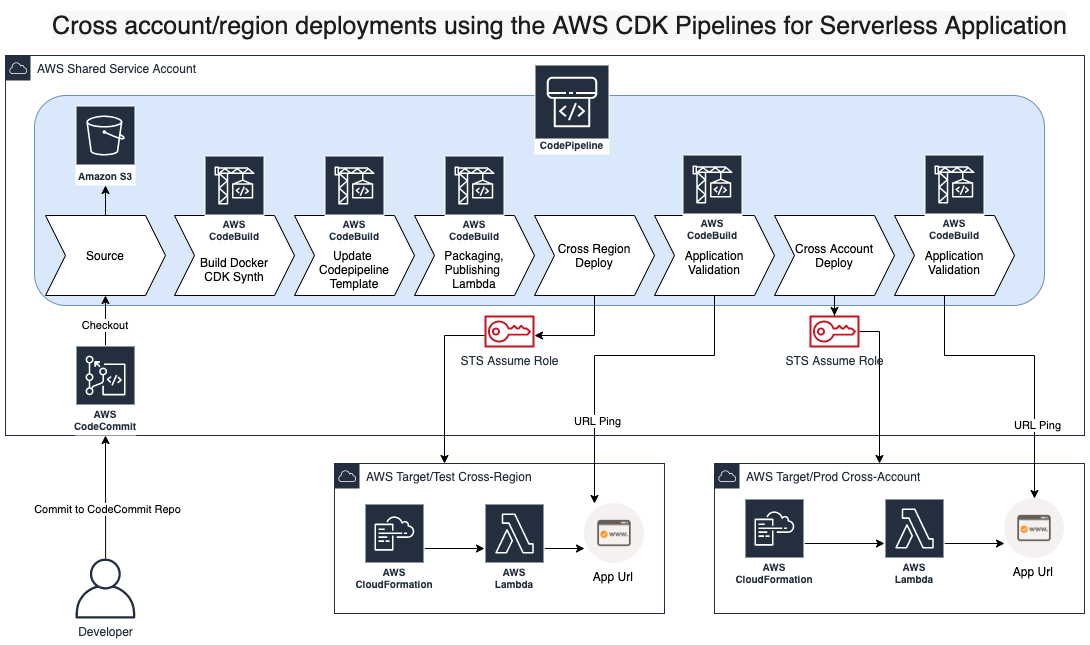
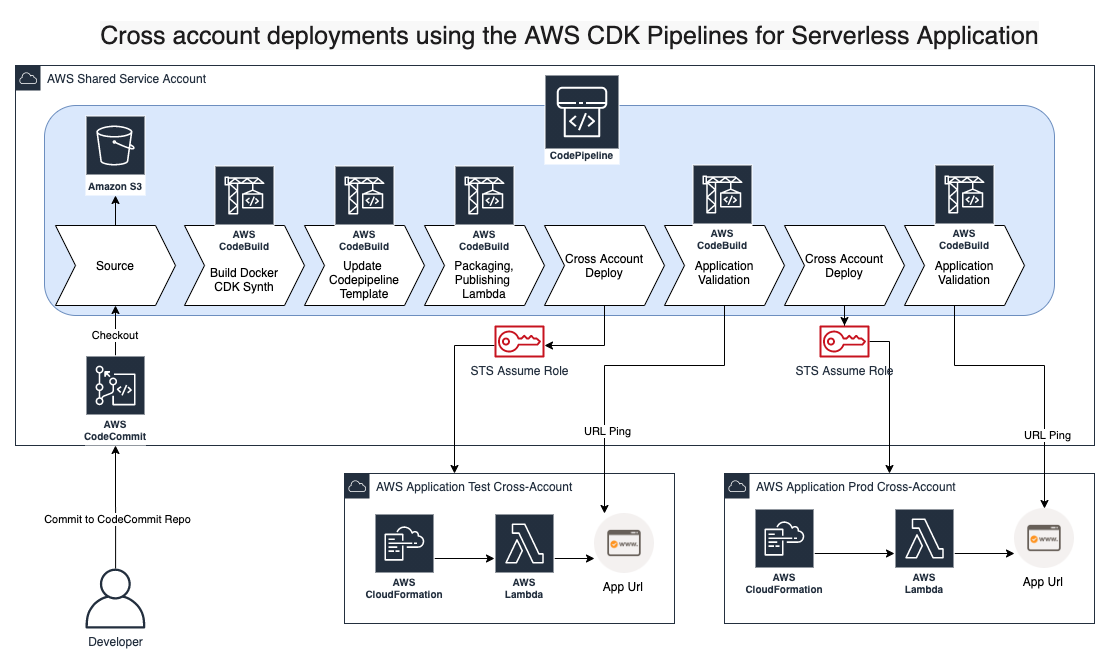
Fixed multi account

diff --git a/README.md b/README.md
@@ -2,17 +2,17 @@
 # Package Description:
 
 The purpose of this artifact is to give a customer out of the box solution to get started with AWS CDK project for deploying
-a serverless application into cross region and cross account using AWS Devloper tools like AWS CodeCommit, AWS CodePipeline and AWS Cloudformation.
+a serverless application into multiple cross accounts using AWS Developer tools like AWS CodeCommit, AWS CodePipeline and AWS Cloudformation.
 
-The purpose of this artifact is to get the developer hands of experience with AWS CDK and show the way that CDK helps in generating AWS Cloudformation
-tempaltes and provision Pipeline with few commands.
-Also, since the AWS Codepipelines are provisioned through AWS CDK, when there is change to the pipeline itself (example, adding a new stage in the pipelines), 
-developer need not to worry about operational changes to pipeline insfrastructre, as AWS CDK has a built in feature called `Self Mutation deploys` which means
-if there are any changes to pipeline itselt, once the code is commited to CodeCommit Repo, the pipeline will take care of making changes to pipeline infrastrucre.
+The purpose of this artifact is to get the developer hands of experience with AWS CDK and show the way that CDK helps in generating AWS Cloudformation templates and provision Pipelines with few commands.
+Also, since the AWS Codepipelines are provisioned through AWS CDK, when there is a change to the pipeline itself (example, adding a new stage in the pipelines), developer need not to worry about operational changes to pipeline infrastructure, as AWS CDK has a built in feature called `Self Mutation deploys` which means if there are any changes to pipeline itself, once the code is committed to CodeCommit Repo, the pipeline will take care of making changes to pipeline infrastructure.
 
 # Design Overview
-This artifact is needed two AWS Accounts, one is to provision Pipeline Infrastrcutre and another is to provision Application Instraftructure(In this case it would be a Serverless Application)
+This artifact is needed three AWS Accounts, one is to provision Pipeline Infrastructure and other two are accounts are to provision Application Infrastructure (In this case it would be a Serverless Application)
+The Provisioned pipeline also validate deployed serverless application by pinging Url using CodeBuild Project before proceeding to make changes to Prod AWS Account.
+
 ![](design.png)
+Note: If you can’t see the image, refer to the attached (design.png) file.
 
 # Folder Structre
 
@@ -21,41 +21,29 @@ This artifact is needed two AWS Accounts, one is to provision Pipeline Infrastrc
 | cdk.json                                    | Context values for application and parameters for AWS Accounts, also tells the CDK Toolkit how to execute your app |
 | cdk.context.json                            | Context values for AWS Account Availability Zones |
 | app.py                                      | Loads cdk.json and cdk.context.json and calls pipeline/PipelineStack.py to provision pipeline |
-| pipeline/PipelineStack.py                   | Logic for representing how your pipeline should looks like (Imaging a CFN tempalte for provisioning pipeline) |
+| pipeline/PipelineStack.py                   | Logic for representing how your pipeline should looks like (Imagine a CFN template for provisioning pipeline) |
 | ApplicationStage.py                         | Logic for representing an application modeling unit consisting of Stacks that can be deployed together. (Imaging multiple CFN templates/stacks for application stage in pipeline)| 
-| cdk_pipeline_lambda/ApplicationStack.py     | Logic for provisioning your application infrastructure (Imagin a CFN template for application provisioning) |
+| cdk_pipeline_lambda/ApplicationStack.py     | Logic for provisioning your application infrastructure (Imagine a CFN template for application provisioning) |
 | lambda                                      | Application Code |
 
 # Pre-reqs:
-1. Get CDK Installed and Configure AWS Credentials : [install-cdk link](https://docs.aws.amazon.com/cdk/latest/guide/cli.html) 
-2. Bootstrapping your environments : [General-Information link](https://docs.aws.amazon.com/cdk/latest/guide/cli.html#cli-bootstrap)
-   ```
-   env CDK_NEW_BOOTSTRAP=1 npx cdk bootstrap \
-    --profile default \
-    --cloudformation-execution-policies arn:aws:iam::aws:policy/AdministratorAccess \
-    --trust <<ApplicationProvisionAWSAccount#>> \
-    aws://<<PipelineProvisionAWSAccount#>>/us-west-1
-
-    ```
-3. It is expected to have a CodeCommit Repo, if not please create one and checkout the repo.
-4. Clone repo: [link](https://gitlab.aws.dev/proserve-ussdt-devops/cdk-pipeline-lambda)
-5. Checkout cdk-pipeline-lambda and copy the contents to CodeCommit Repo (Ref: Step3)
-6. Open `cdk.json` and update the following: 
-   1. account:`<<pipelineProvisionAWSAccount#>>` from line# 8
-   2. account:`<<pipelineProvisionAWSAccount#>>` from line# 13
-   3. account:`<<ApplicationProvisionAWSAccount#>>` from line# 16
+1. It is expected to have three separate AWS accounts:
+   1. Shared Tool Chain Account (`<<pipelineProvisionAWSAccount#>>`) for hosting CodeCommit Repo, CodePipelines
+   2. Application Test Account (`<<testAWSAccount#>>`) for deploying application changes to Test Environment.
+   3. Application Prod Account (`<<prodAWSAccount#>>`) for deploying application changes to Production Environement
+2. Clone repo: [link](https://gitlab.aws.dev/proserve-ussdt-devops/cdk-pipeline-lambda)
+3. It is expected to have a CodeCommit Repo, if not please create one in Shared Tool Chain Account and checkout the repo.
+4. Checkout cdk-pipeline-lambda and copy the contents to CodeCommit Repo that is hosted in Shared Tool Chain Account.
+5. Update the following in files: `cdk.json` and `cdk.context.json` 
+   1. account:`<<pipelineProvisionAWSAccount#>>` with your Shared Tool Chain Account#
+   2. account:`<<testAWSAccount#>>` with your Application Test Account#
+   3. account:`<<prodAWSAccount#>>` with your Application Prod Account#
    4. Optionals: If you would like to change the region, you can do so.
-
-7. Open `cdk.context.json` and update the following:
-   1. account=`<<pipelineProvisionAWSAccount#>>`
-   2. account=`<<ApplicationProvisionAWSAccount#>>`
-8. Open `pipeline/PipelineStack.py` and replace `cdk-pipeline-demo` this with your codecommit repo name.
-9. Optional:
+6. Open `pipeline/PipelineStack.py` and replace `cdk-pipeline-demo` this with your codecommit repo name.
+7. Optional:
    1. If you want to change the stack name, Open `app.py`, replace `my-app-lambda-pipeline` this with new name.
    2. If you want to change the pipeline name, Open `pipeline/PipelineStack.py`, replace pipeline_name=`"MyLambdaPipeline"` this with new name.
-10. Push changes to CodeCommit Repo
-
-# Setup local environment:
+8. ### Setup local environment:
     This project is set up like a standard Python project.  The initialization
     process also creates a virtualenv within this project, stored under the .env
     directory.  To create the virtualenv it assumes that there is a `python3`
@@ -65,42 +53,86 @@ This artifact is needed two AWS Accounts, one is to provision Pipeline Infrastrc
 
     To manually create a virtualenv on MacOS and Linux:
 
-    ```
-    $ python3 -m venv .env
-    ```
+        ```
+        $ python3 -m venv .env
+        ```
 
     After the init process completes and the virtualenv is created, you can use the following
     step to activate your virtualenv.
 
-    ```
-    $ source .env/bin/activate
-    ```
+        ```
+        $ source .env/bin/activate
+        ```
 
     If you are a Windows platform, you would activate the virtualenv like this:
 
-    ```
-    % .env\Scripts\activate.bat
-    ```
-
+        ```
+        % .env\Scripts\activate.bat
+        ```
     Once the virtualenv is activated, you can install the required dependencies.
 
+        ```
+        $ pip install -r requirements.txt
+        ```
+    To add additional dependencies, for example other CDK libraries, just add
+    them to your `setup.py` file and rerun the `pip install -r requirements.txt`
+    command.
+9.  Get CDK Installed and Configure AWS Credentials : [install-cdk link](https://docs.aws.amazon.com/cdk/latest/guide/cli.html) 
+10. Bootstrapping from Shared Tool Chain Account (It means when you do `aws configure` from cli, you should see AWS Access Key ID related to Shared Tool Chain Account):
+   Execute this command:
     ```
-    $ pip install -r requirements.txt
+    cdk bootstrap
     ```
+    Please see the attached screenshot for more information.
+    ![](screenshots/Bootstrap_from_shared_tool_chain_account.png)
+    Note: If you can’t see the image, refer to the attached (Bootstrap_from_shared_tool_chain_account.png) file.
 
-    At this point you can now synthesize the CloudFormation template for this code.
+11. Bootstrapping from Application Test Account# (It means when you do `aws configure` from cli, you should see AWS Access Key ID related to Application Test Account):
+   Replace `<<pipelineProvisionAWSAccount#>>` , `<<testAWSAccount#>>` and Execute this command:
+
+    ```
+    env CDK_NEW_BOOTSTRAP=1 npx cdk bootstrap \
+        --profile default \
+        --cloudformation-execution-policies arn:aws:iam::aws:policy/AdministratorAccess \
+        --trust <<pipelineProvisionAWSAccount#>> \
+        aws://<<testAWSAccount#>>/us-east-1
+    ```
+    Please see the attached screenshot for more information.
+    ![](screenshots/Bootstrap_from_test_account.png)
+    Note: If you cant see the image, refer to the attached (Bootstrap_from_test_account.png) file.
+
+12. Bootstrapping from Application Prod Account# (It means when you do `aws configure` from cli, you should see AWS Access Key ID related to Application Prod Account):
+   Replace `<<pipelineProvisionAWSAccount#>>`, `<<prodAWSAccount#>>` and Execute this command:
+
+    ```
+    env CDK_NEW_BOOTSTRAP=1 npx cdk bootstrap \
+        --profile default \
+        --cloudformation-execution-policies arn:aws:iam::aws:policy/AdministratorAccess \
+        --trust <<pipelineProvisionAWSAccount#>> \
+        aws://<<prodAWSAccount#>>/us-east-1
+    ```
+    Please see the attached screenshot for more information.
+    ![](screenshots/Bootstrap_from_prod_account.png)
+    Note: If you can’t see the image, refer to the attached (Bootstrap_from_prod_account.png) file.
+
+13. Push changes to CodeCommit Repo
+
+# Provision pipelines
+
+1. Login to Shared Tools Chain Account
+2. At this point you can now synthesize the CloudFormation template for this code.
 
     ```
     $ cdk synth
     ```
-
-    To add additional dependencies, for example other CDK libraries, just add
-    them to your `setup.py` file and rerun the `pip install -r requirements.txt`
-    command.
-
-# Provision pipelines
-1. Execute `cdk deploy -All`, you should be receiving few [y/n] prompts, please proceed with [y].
-2. If everything goes well, you should be able to see the pipelines in `Pipelines Provision AWS Account`.
+3. Execute this command to deploy the generated CFN templates into Shared Tool Chain Account:
+   
+    ```
+    $ cdk deploy my-app-lambda-pipeline
+    ```
+    you should be receiving few [y/n] prompts, please proceed with [y].
+    
+4. If everything goes well, you should be able to see the pipelines in Shared Tool Chain Account.
 
 ## Useful commands
 
